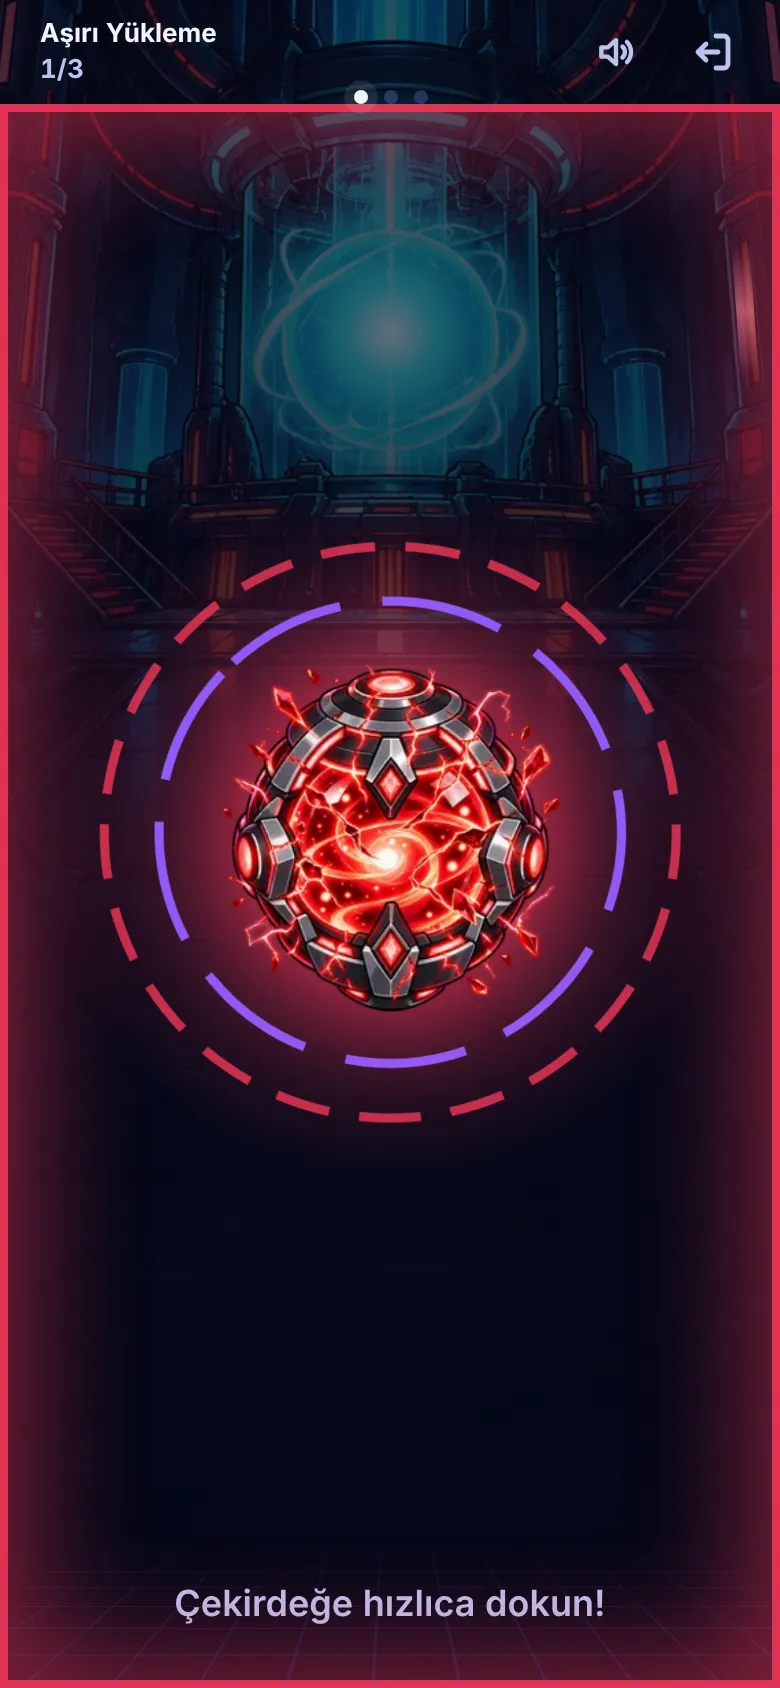
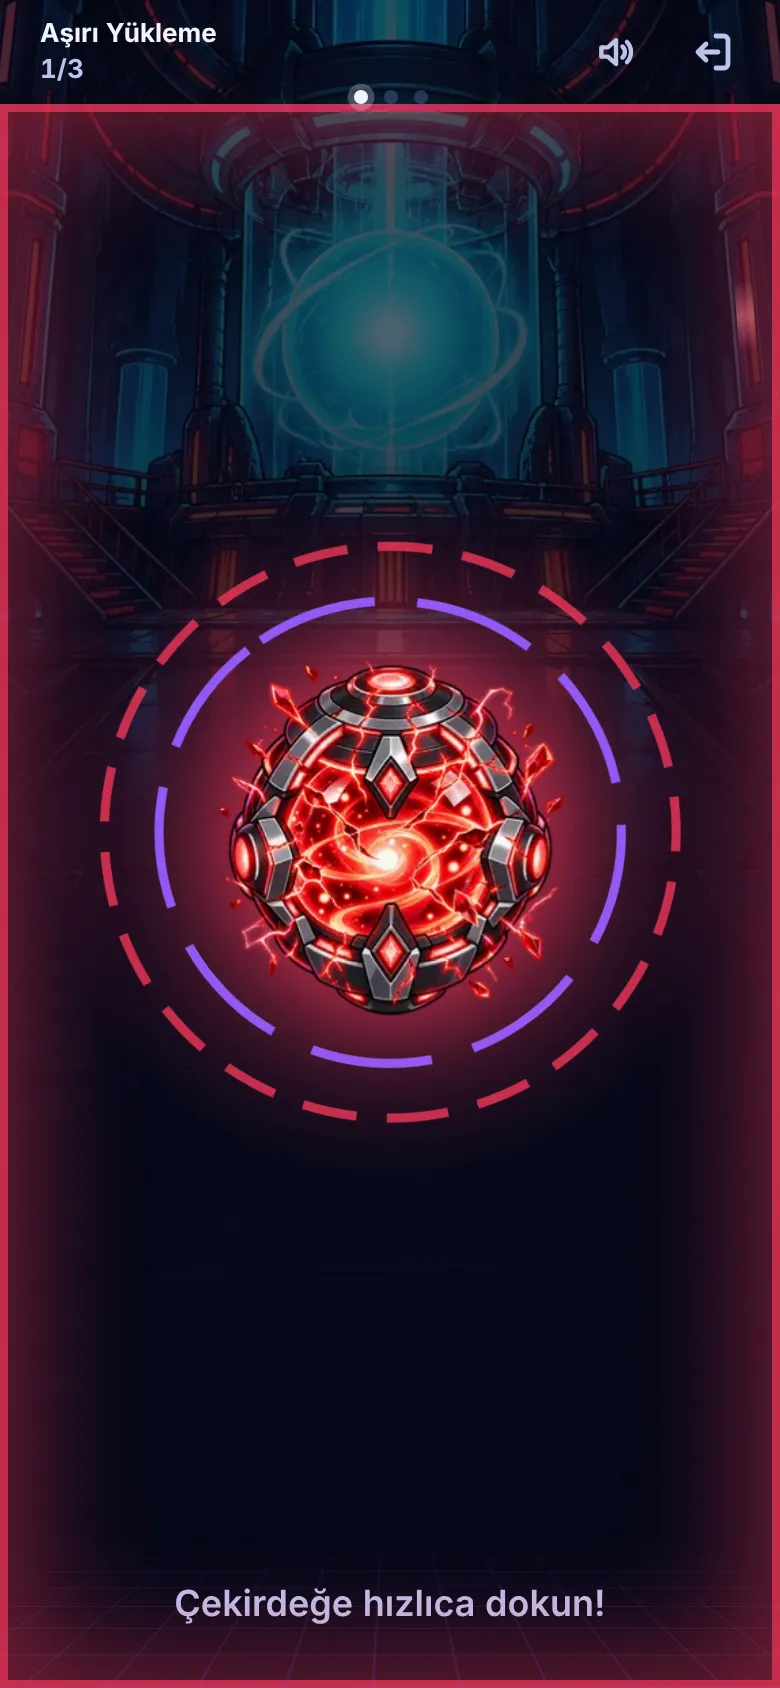
Aşırı Yükleme: klavye, efekt kurulumu ve ambiyans başarımı
- Klavye yolu: basılı tuş tekrarı tıklama sayılmaz; ses kilidi açılır.
- Çekirdek ve parçacık efektleri, sahne yeniden kurulup düğümler
  değişince yeniden kurulur (eski havuz bırakılır).
- Ambiyans yalnız transform/opacity ile canlanır: şerit süpürmesi kırpılmış
  kutuda kayan bant; sürekli blur ve karışım modu yok.

Claude-Session: https://claude.ai/code/session_01Seery4hrxKSJhpe6D1b9KA

diff --git a/apps/client/src/games/asiri-yukleme/asiri-yukleme.css b/apps/client/src/games/asiri-yukleme/asiri-yukleme.css
@@ -241,13 +241,13 @@
   width: calc(230 * var(--u));
   height: calc(255 * var(--u));
   border-radius: 46% / 38%;
+  will-change: opacity;
   background: radial-gradient(
     ellipse 50% 50% at 50% 60%,
     rgba(150, 245, 255, 0.34),
     rgba(46, 242, 255, 0.14) 55%,
     transparent 100%
   );
-  mix-blend-mode: screen;
   animation: ay-amb-pulse 2.6s ease-in-out infinite;
 }
 /* Tüp tabanındaki çıkışlardan ince buhar. */
@@ -258,7 +258,7 @@
   border-radius: 50%;
   background: radial-gradient(closest-side, rgba(210, 230, 245, 0.32), transparent);
   opacity: 0;
-  filter: blur(3px);
+  will-change: transform, opacity;
   animation: ay-amb-steam 8s ease-out infinite;
 }
 .ay-amb__steam--l {
@@ -270,22 +270,25 @@
   animation-duration: 10s;
   animation-delay: 5.2s;
 }
-/* Kırmızı ışık şeridinde aşağıdan yukarı geçen lamba yansıması (dönen lambanın süpürmesi). */
+/* Kırmızı ışık şeridinde aşağıdan yukarı geçen lamba yansıması (dönen lambanın süpürmesi). Şerit kutusu
+   kırpar; içindeki parlak bant yalnız transform ile kayar (her karede boyama yok). */
 .ay-amb__sweep {
   top: calc(165 * var(--u));
   width: calc(14 * var(--u));
   height: calc(135 * var(--u));
   border-radius: calc(7 * var(--u));
-  background: linear-gradient(
-    180deg,
-    transparent 0%,
-    transparent 38%,
-    rgba(255, 150, 150, 0.55) 50%,
-    transparent 62%,
-    transparent 100%
-  );
-  background-size: 100% 300%;
-  mix-blend-mode: screen;
+  overflow: hidden;
+}
+.ay-amb__sweep::before {
+  content: "";
+  position: absolute;
+  left: 0;
+  right: 0;
+  top: 0;
+  height: 40%;
+  background: linear-gradient(180deg, transparent, rgba(255, 150, 150, 0.5), transparent);
+  transform: translateY(260%);
+  will-change: transform;
   animation: ay-amb-sweep 3.2s linear infinite;
 }
 .ay-amb__sweep--l {
@@ -295,6 +298,8 @@
 .ay-amb__sweep--r {
   left: calc(50% + (623 - 360) * var(--u));
   transform: rotate(-4deg);
+}
+.ay-amb__sweep--r::before {
   animation-delay: -1.6s;
 }
 @keyframes ay-amb-pulse {
@@ -308,12 +313,13 @@
 }
 @keyframes ay-amb-sweep {
   from {
-    background-position: 0 0;
+    transform: translateY(260%);
   }
   to {
-    background-position: 0 100%;
+    transform: translateY(-110%);
   }
 }
+
 @keyframes ay-amb-steam {
   0%,
   70% {
@@ -775,7 +781,8 @@
 
 /* Hareket azaltma: sürekli arka plan döngüleri durur; sıralı açılış kayma yerine yalnız belirir. */
 @media (prefers-reduced-motion: reduce) {
-  :root:not([data-motion="full"]) .ay-amb > i {
+  :root:not([data-motion="full"]) .ay-amb > i,
+  :root:not([data-motion="full"]) .ay-amb > i::before {
     animation: none;
   }
   :root:not([data-motion="full"]) .ay__row {
@@ -786,7 +793,8 @@
     animation-duration: 1400ms;
   }
 }
-:root[data-motion="reduce"] .ay-amb > i {
+:root[data-motion="reduce"] .ay-amb > i,
+:root[data-motion="reduce"] .ay-amb > i::before {
   animation: none;
 }
 :root[data-motion="reduce"] .ay__row {

diff --git a/apps/client/src/games/asiri-yukleme/AsiriYuklemeScreen.tsx b/apps/client/src/games/asiri-yukleme/AsiriYuklemeScreen.tsx
@@ -55,9 +55,19 @@ export default function AsiriYuklemeScreen(props: GameScreenProps) {
   let lastFx = 0;
   onCleanup(() => inflow?.dispose());
 
+  // Efektler kendi düğümlerine bağlıdır: sahne yeniden kurulursa (ref değişir) yenileri kurulur, eskiler bırakılır.
+  let fxCore: HTMLElement | undefined;
+  let fxMotes: HTMLElement | undefined;
   const ensureFx = (): void => {
-    if (!coreFx && coreEl) coreFx = createCoreFx(coreEl);
-    if (!inflow && motesEl) inflow = createInflow(motesEl);
+    if (coreEl && (coreFx === null || fxCore !== coreEl)) {
+      coreFx = createCoreFx(coreEl);
+      fxCore = coreEl;
+    }
+    if (motesEl && (inflow === null || fxMotes !== motesEl)) {
+      inflow?.dispose();
+      inflow = createInflow(motesEl);
+      fxMotes = motesEl;
+    }
   };
 
   /** Bir dokunuşun yerel tepkisi: çekirdek, parçacıklar, vınlama, ritim, titreşim (yalnız kendi hızın). */
@@ -272,7 +282,9 @@ export default function AsiriYuklemeScreen(props: GameScreenProps) {
                     onKeyDown={(e) => {
                       if (e.key === "Enter" || e.key === " ") {
                         e.preventDefault();
-                        if (props.spectator) return;
+                        // Basılı tutulan tuşun otomatik tekrarı tıklama sayılmaz.
+                        if (e.repeat || props.spectator || reveal()) return;
+                        unlockAudio();
                         batcher.tap();
                         feel(null, null);
                       }
